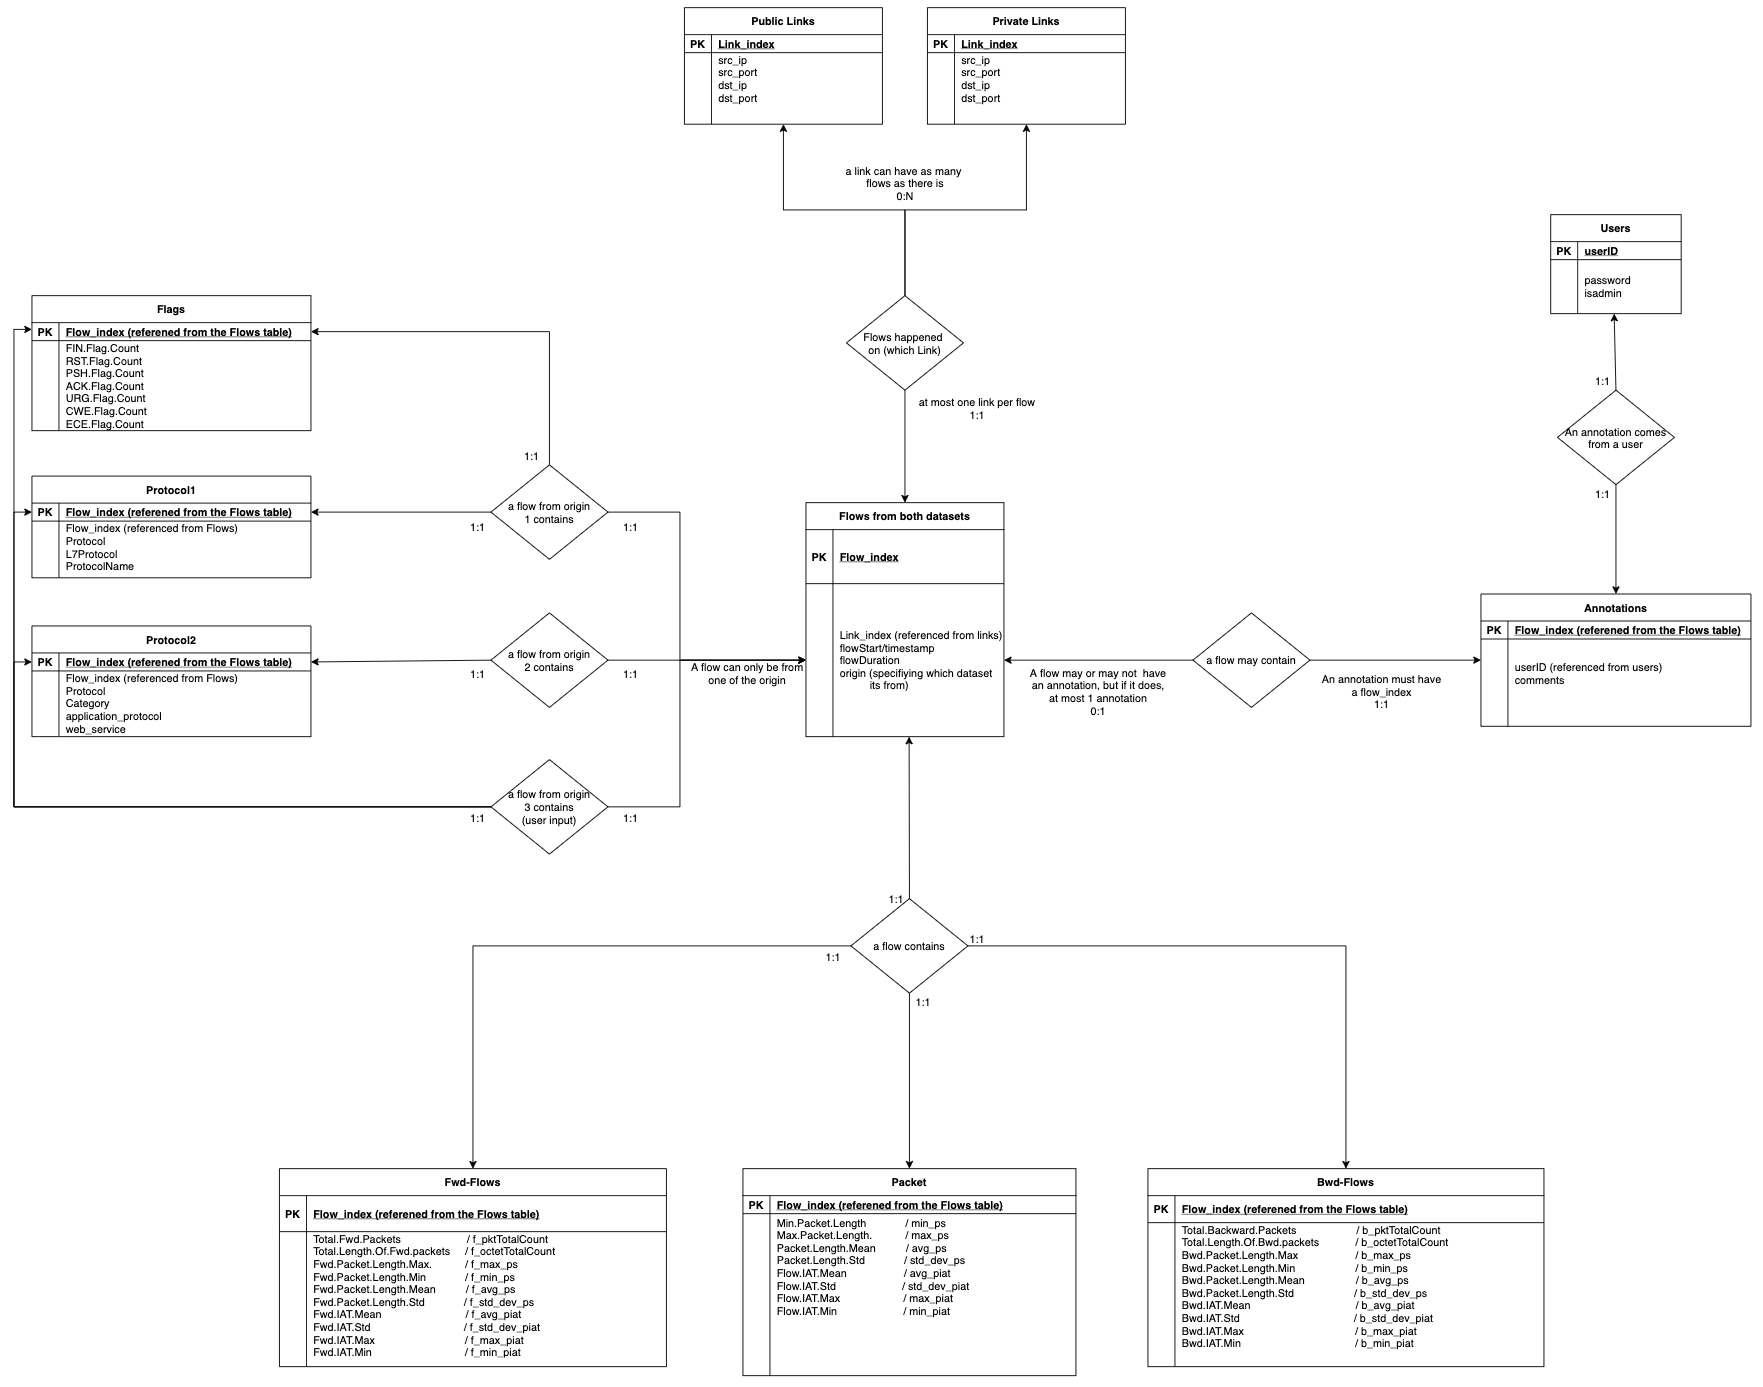
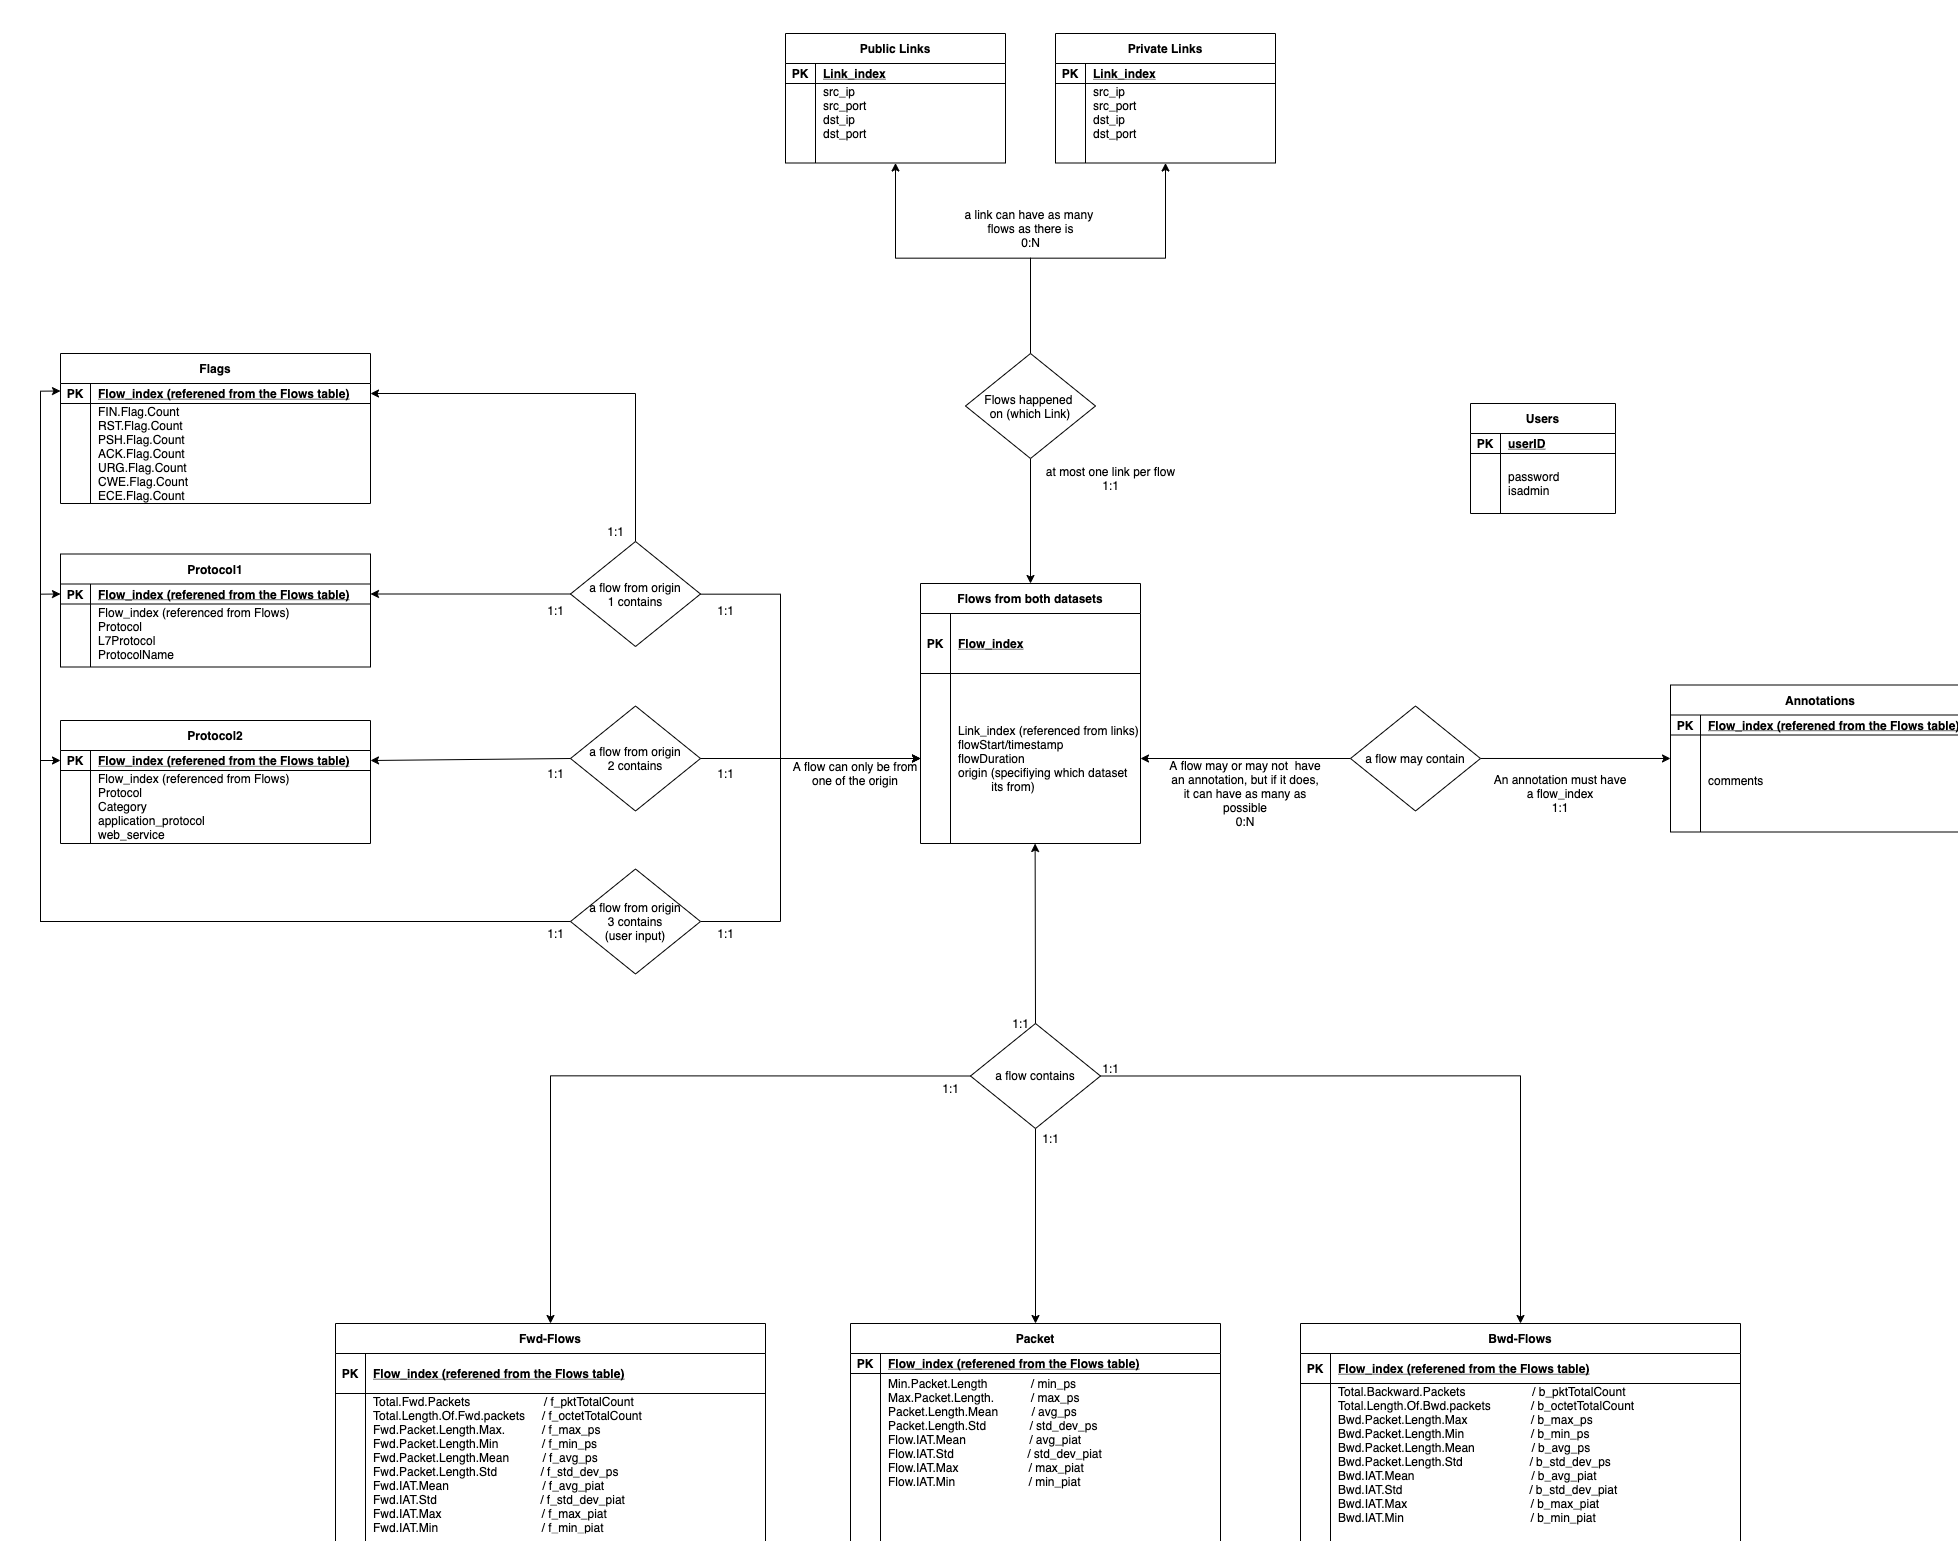
fixed ER(annotation) and README format

diff --git a/README.md b/README.md
@@ -20,25 +20,17 @@ pip3 install matplotlib
 
 ## Setups:
 Before running our code, there are a few python and sql scripts that needs to be run in the following order:
-**make sure you are at the Networking_dataset directory** 
-First run `python3 21-Network-Traffic/extract.py` to change formatting of the data csv files.
-Then run `python3 CLI/datamining/APF_generate.py` to generate the average packets per flow for data mining purpose.
-Lastly, start up your mysql database, and inside the mysql command line run `source tableSetupFull.sql` to set up your database.
+- **make sure you are at the Networking_dataset directory** 
+- First run `python3 21-Network-Traffic/extract.py` to change formatting of the data csv files.
+- Then run `python3 CLI/datamining/APF_generate.py` to generate the average packets per flow for data mining purpose.
+- Lastly, start up your mysql database, and inside the mysql command line run `source tableSetupFull.sql` to set up your database.
 
 ## How to run our CLI
 To run our CLI, simply run `python3 CLI/main.py`. Then you will be required to enter your username and password.
 
 ### login
-For admin, enter username: **admin** and password: **password123**
-For user, enter username: **user** and password: **password456**
-### client option 
-User will be provided with the following client options:
-1. 
-2.
-3.
-4.
-
-
+- For admin, enter username: **admin** and password: **password123**
+- For user, enter username: **user** and password: **password456**
 
 ## Tests:
 The test has been implemented in order to check the private/public ip route of the client side.
